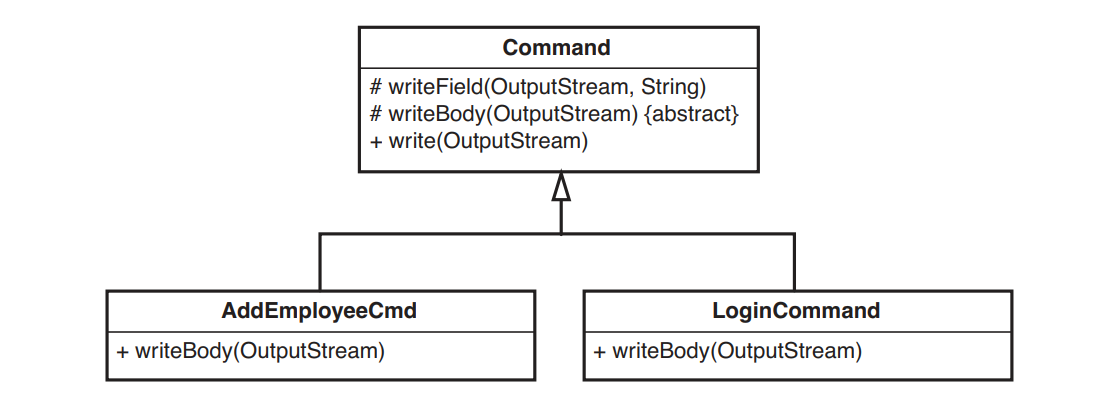
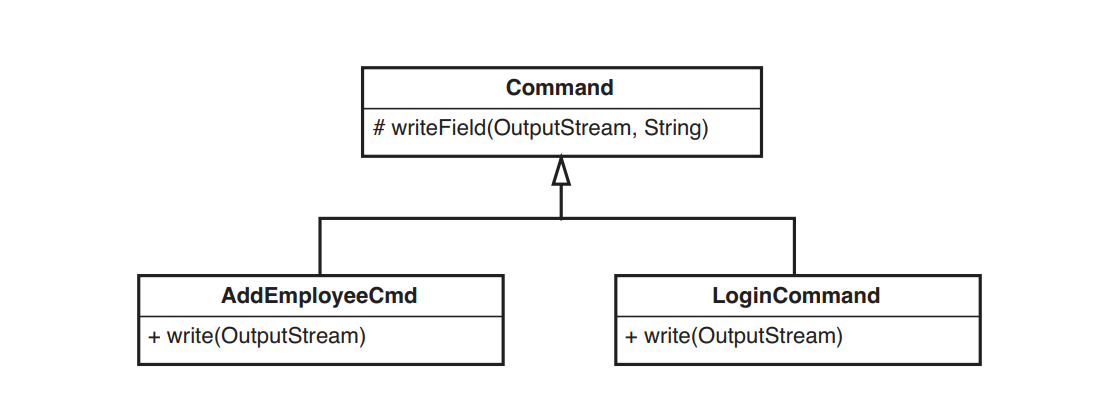
Book - Working Efectively with Legacy Code - P2 - C21

diff --git a/working-effectively-with-legacy-code/chapter-21-im-changing-the-same-code-all-over-the-place.md b/working-effectively-with-legacy-code/chapter-21-im-changing-the-same-code-all-over-the-place.md
@@ -333,8 +333,8 @@ public class Command {
 
 Lưu ý rằng chúng tôi phải xác định một phương thức trừu tượng cho `writeBody` và đưa nó vào `Command` (xem Hình 21.3)
 
-![21.2](images/21/21-2.png)
-Hình 21.2 Đưa `writeField` lên
+![21.3](images/21/21-3.png)
+Hình 21.3 Đưa `writeField` lên
 
 Sau khi chúng ta đưa phương thức `write` lên lớp cha, những thứ duy nhất còn lại trong mỗi lớp con là các phương thức `getSize`, phương thức `getCommandChar` và các hàm khởi tạo. Đây là lớp `loginCommand`:
 
@@ -365,11 +365,11 @@ public class LoginCommand extends Command {
 ```java
 protected int getSize() {
   return header.length +
-    SIZE_LENGTH +
-    CMD_BYTE_LENGTH +
-    footer.length +
-    userName.getBytes().length + 1 +
-    passwd.getBytes().length + 1;
+      SIZE_LENGTH +
+      CMD_BYTE_LENGTH +
+      footer.length +
+      userName.getBytes().length + 1 +
+      passwd.getBytes().length + 1;
 }
 ```
 
@@ -378,11 +378,60 @@ Còn đây là của `AddEmployeeCmd`
 ```java
 private int getSize() {
   return header.length + SIZE_LENGTH +
-    CMD_BYTE_LENGTH + footer.length +
-    name.getBytes().length + 1 +
-    address.getBytes().length + 1 +
-    city.getBytes().length + 1 +
-    state.getBytes().length + 1 +
-    yearlySalary.getBytes().length + 1;
+      CMD_BYTE_LENGTH + footer.length +
+      name.getBytes().length + 1 +
+      address.getBytes().length + 1 +
+      city.getBytes().length + 1 +
+      state.getBytes().length + 1 +
+      yearlySalary.getBytes().length + 1;
+}
+```
+
+Vậy có cái gì giống nhau và khác nhau? Có vẻ như cả hai đều thêm `header`, độ dài của kích thước, độ dài của byte lệnh và độ dài `footer`. Sau đó, chúng thêm kích thước của từng trường của chúng. Điều gì sẽ xảy ra nếu chúng ta trích xuất những gì được tính toán khác nhau: kích thước của các trường? Chúng tôi gọi phương thức kết quả là `getBodySize()`.
+
+```java
+private int getSize() {
+  return header.length + SIZE_LENGTH + CMD_BYTE_LENGTH + footer.length + getBodySize();
+}
+```
+
+Nếu làm như vậy, chúng ta sẽ có cùng một đoạn code trong mỗi phương thức. Chúng ta cộng kích thước của tất cả dữ liệu kế toán, sau đó chúng ta cộng kích thước của phần nội dung, là tổng kích thước của tất cả các trường. Sau khi thực hiện việc này, chúng ta có thể chuyển `getSize` lên lớp `Command` và có các cách triển khai khác nhau cho `getBodySize` trong mỗi lớp con (xem Hình 21.4)
+
+![21.4](images/21/21-4.png)
+Hình 21.4 Đưa `getSize` lên
+
+Hãy nhìn vào vị trí hiện tại của chúng ta. Chúng ta có triển khai `getBody` này trong `AddEmployeeCmd`:
+
+```java
+protected int getBodySize() {
+  return name.getBytes().length + 1 +
+      address.getBytes().length + 1 +
+      city.getBytes().length + 1 +
+      state.getBytes().length + 1 +
+      yearlySalary.getBytes().length + 1;
+}
+```
+
+Chúng ta đã bỏ qua một số sự trùng lặp khá rõ ràng ở đây. Chúng hơi nhỏ nhưng các bạn hãy nhiệt tình loại bỏ nó hoàn toàn nhé:
+
+```java
+protected int getFieldSize(String field) {
+  return field.getBytes().length + 1;
+}
+
+protected int getBodySize() {
+  return getFieldSize(name) +
+      getFieldSize(address) +
+      getFieldSize(city) +
+      getFieldSize(state) +
+      getFieldSize(yearlySalary);
+}
+```
+
+Nếu chúng ta di chuyển phương thức `getFieldSize` lên lớp `Command`, chúng ta cũng có thể sử dụng nó trong phương thức `getBodySize` của `loginCommand`:
+
+```java
+protected int getBodySize() {
+  return getFieldSize(name) + getFieldSize(password);
 }
 ```
